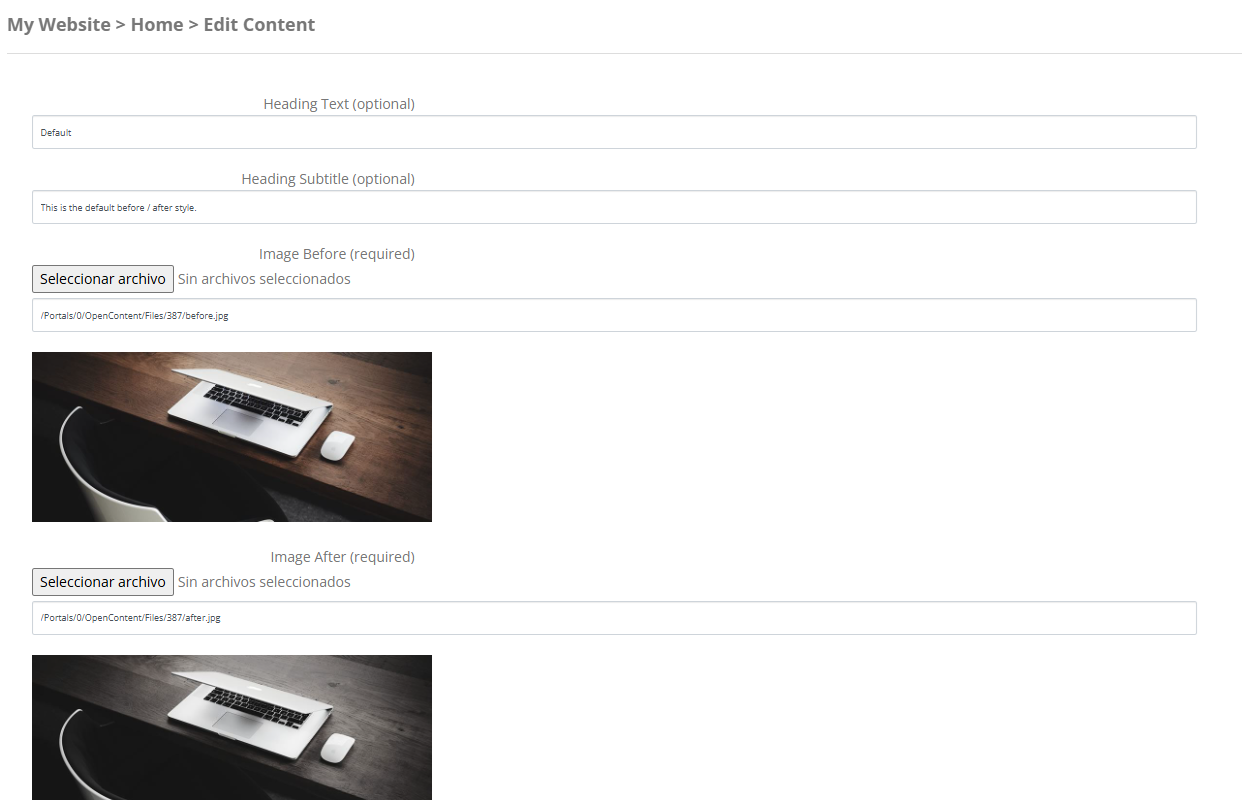
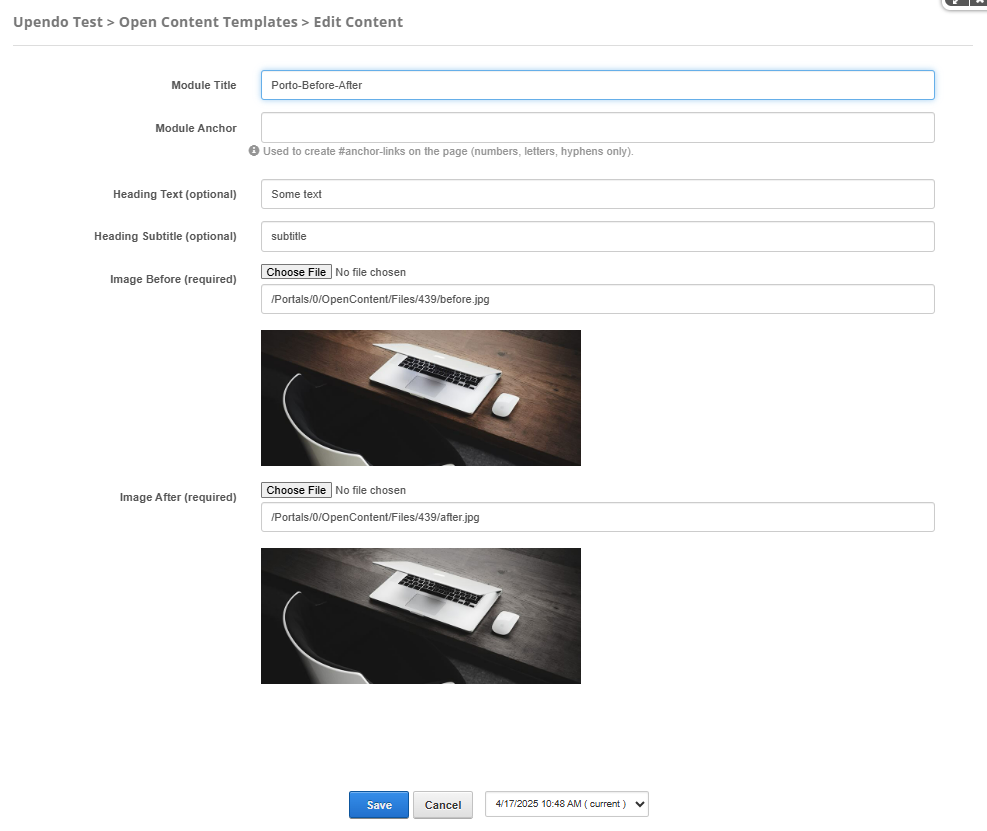
Update Porto-Before-After doc

diff --git a/Porto-Before-After/Porto-Before-After.html b/Porto-Before-After/Porto-Before-After.html
@@ -135,8 +135,6 @@
 
         .component-image {
             width: 100%;
-            max-width: 900px;
-            margin: 10px 0;
             border-radius: 10px;
             box-shadow: 0 4px 8px rgba(0, 0, 0, 0.1);
         }
@@ -185,6 +183,19 @@
                 </tr>
             </thead>
             <tbody>
+                <tr>
+                    <td>Module Title</td>
+                    <td>String</td>
+                    <td>Used to define the title of the module. This title is displayed in the DNN administration interface to
+                        help identify the module.</td>
+                </tr>
+                <tr>
+                    <td>Module Anchor</td>
+                    <td>String</td>
+                    <td>Used to create anchor links on the page. This allows users to link directly to the module using a unique
+                        identifier.
+                        Only letters, numbers, and hyphens are allowed.</td>
+                </tr>
                 <tr>
                     <td>Heading</td>
                     <td>String</td>
